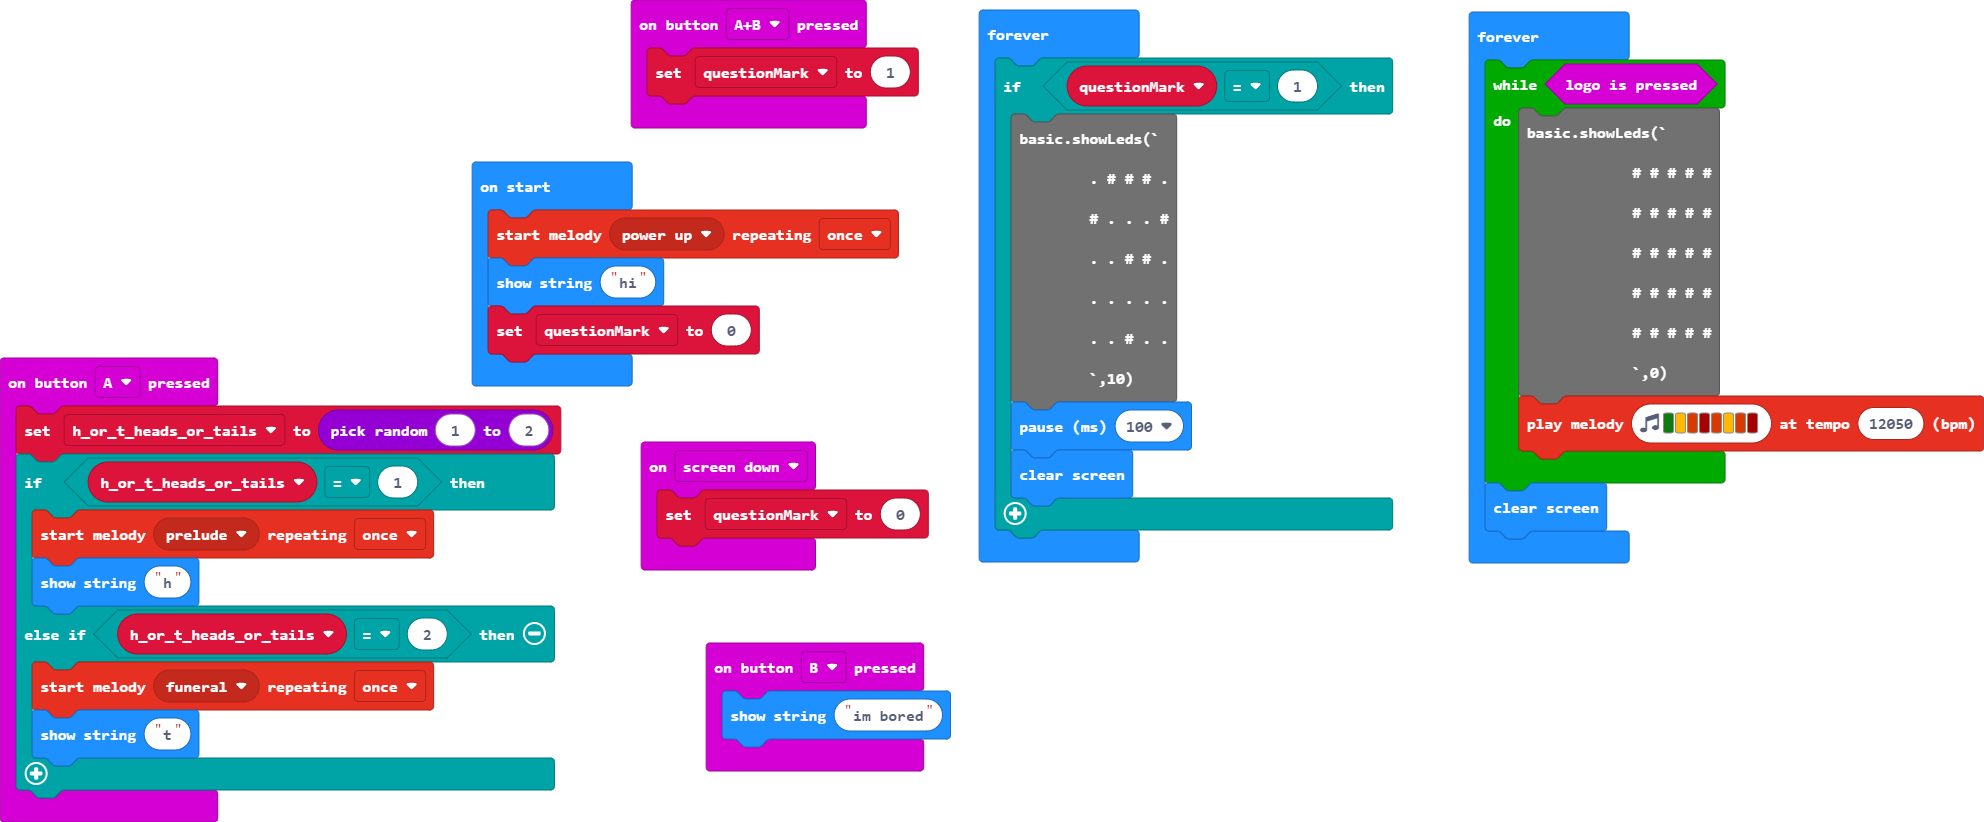
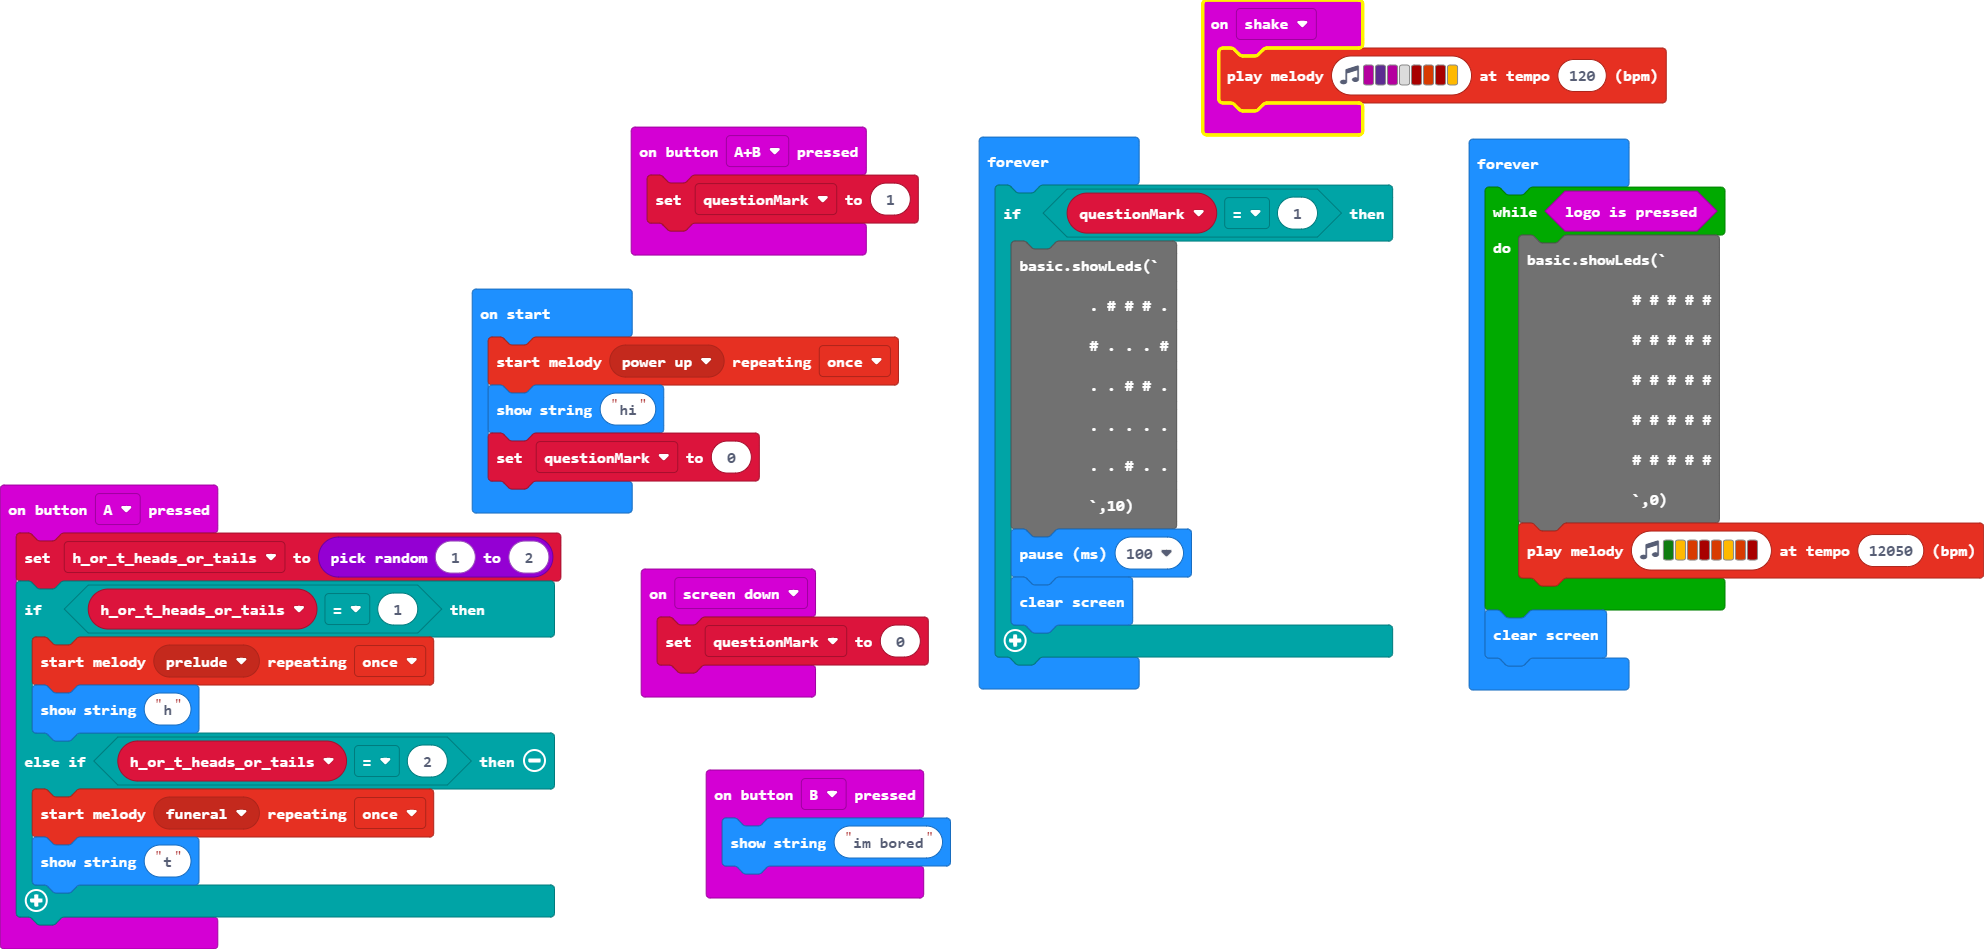
Update main.blocks, main.ts

diff --git a/main.ts b/main.ts
@@ -17,6 +17,9 @@ input.onButtonPressed(Button.AB, function () {
 input.onButtonPressed(Button.B, function () {
     basic.showString("im bored")
 })
+input.onGesture(Gesture.Shake, function () {
+    music.playMelody("C D C - C5 B C5 A ", 120)
+})
 let h_or_t_heads_or_tails = 0
 let questionMark = 0
 music.startMelody(music.builtInMelody(Melodies.PowerUp), MelodyOptions.Once)
